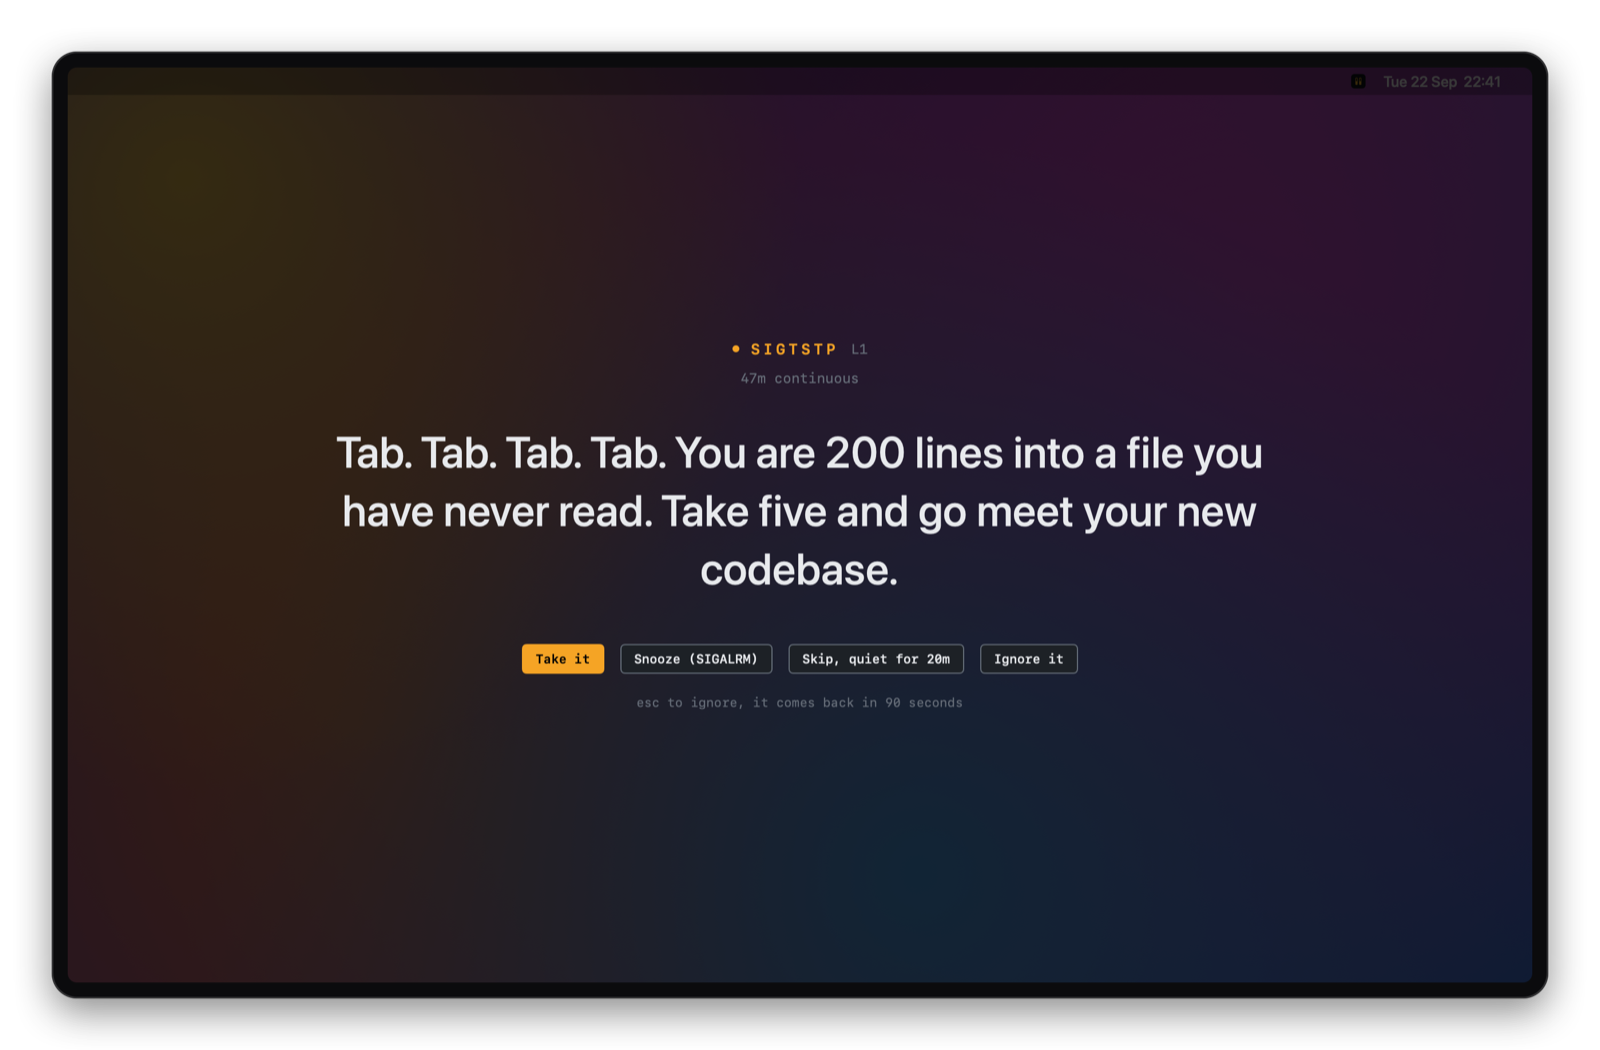
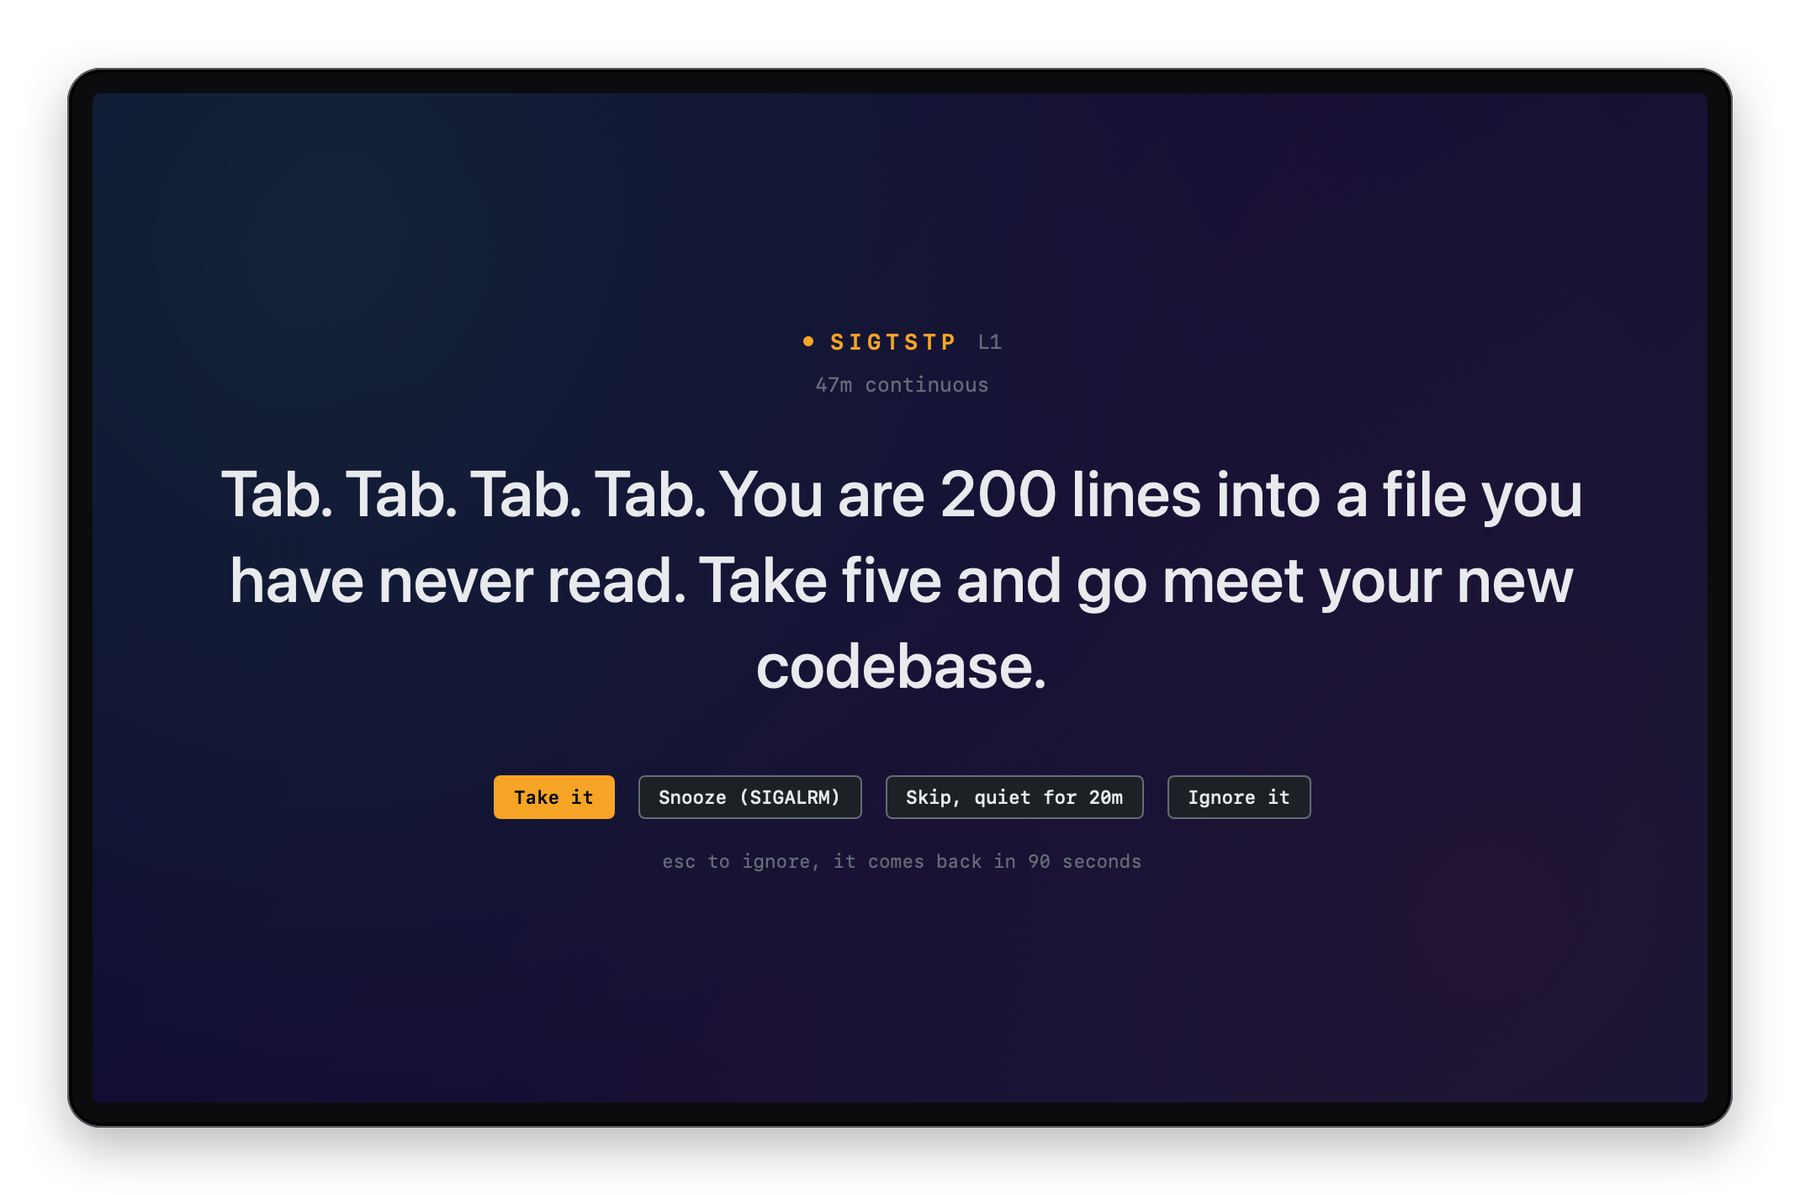
docs: redraw the README hero sharper, from the real render

diff --git a/README.md b/README.md
@@ -16,7 +16,7 @@ macOS 14+ · Apple Silicon and Intel · Free and open source · [Website](https:
 [![336 tests](https://img.shields.io/badge/tests-336%20passing-3fb950?style=flat-square)](#build)
 [![GPL-3.0](https://img.shields.io/badge/license-GPL--3.0-blue?style=flat-square)](LICENSE)
 
-<img src="docs/images/prompt.png" width="100%" alt="A sigstop break prompt over a Mac desktop: Tab. Tab. Tab. Tab. You are 200 lines into a file you have never read. Take five and go meet your new codebase.">
+<img src="docs/images/prompt.png" width="100%" alt="A sigstop break prompt on a Mac screen: Tab. Tab. Tab. Tab. You are 200 lines into a file you have never read. Take five and go meet your new codebase.">
 
 </div>
 
